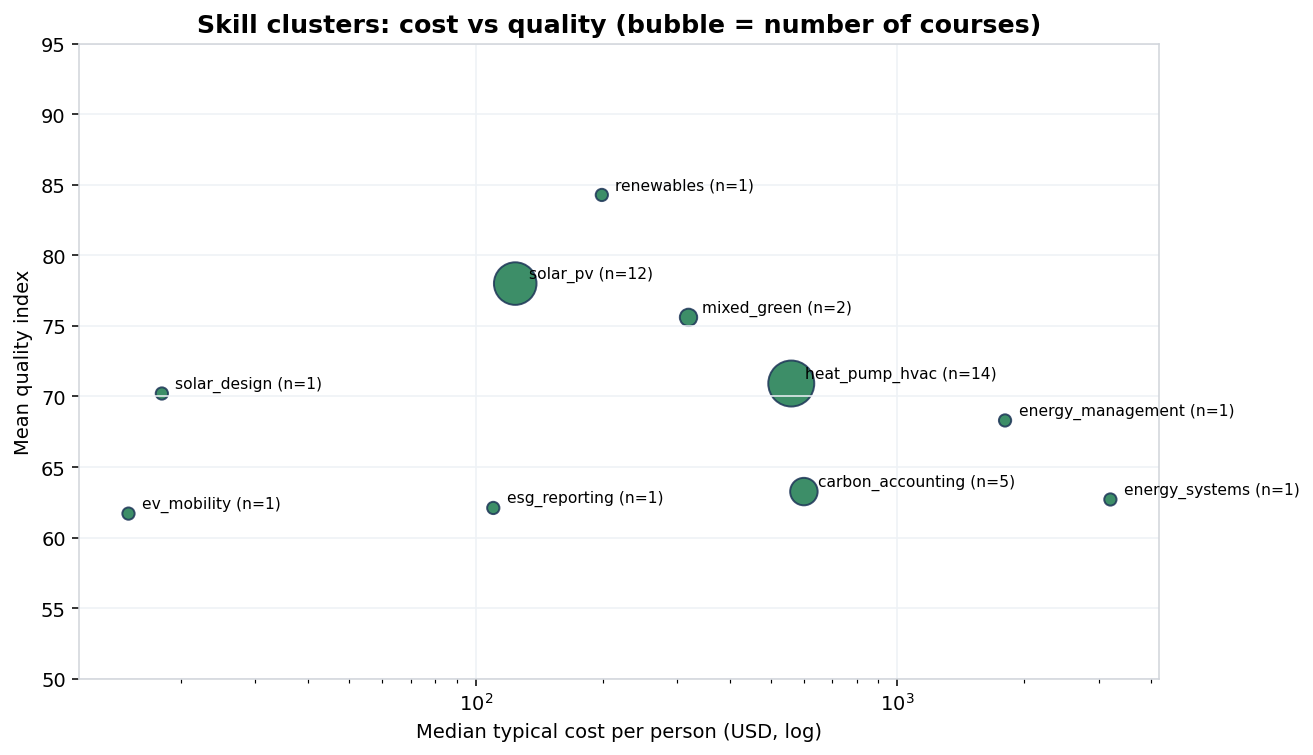
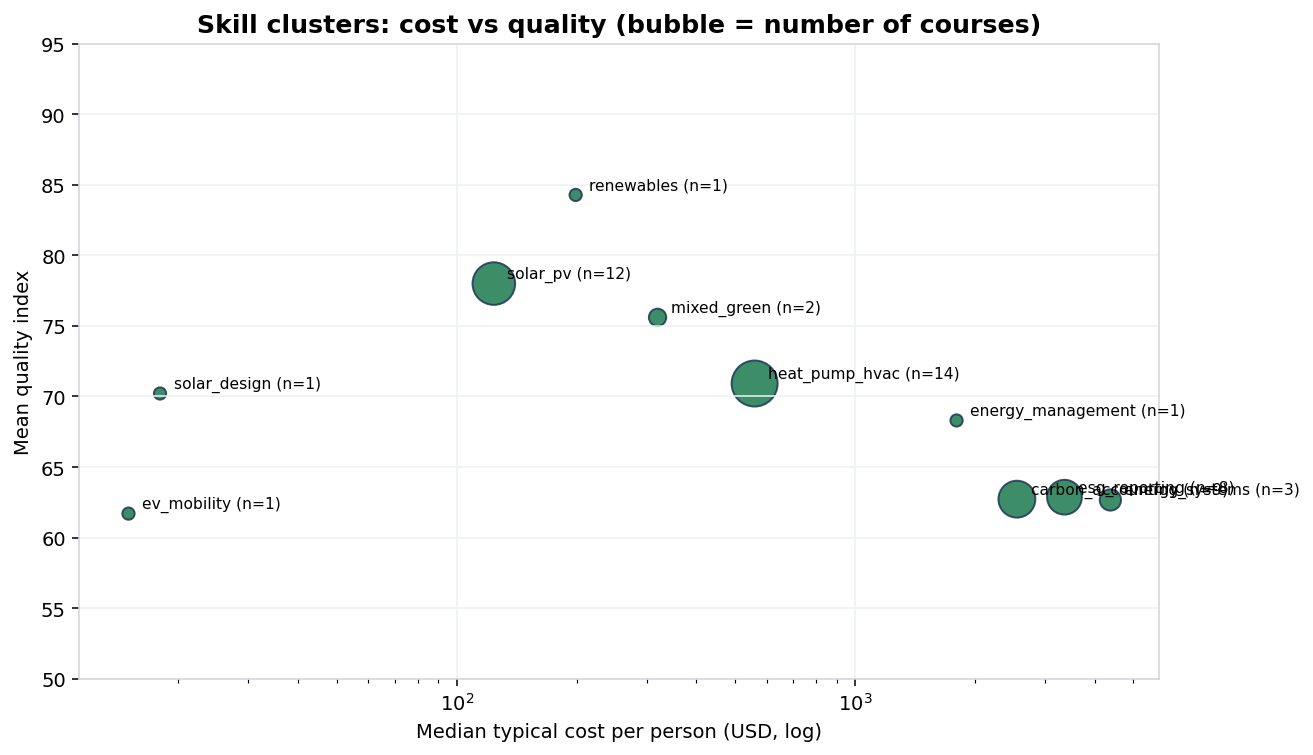
Add NTU Singapore green-skills courses, SkillsFuture nets, and GSC demand stats.

diff --git a/scripts/analyze.py b/scripts/analyze.py
@@ -687,6 +687,35 @@ HTG is sized for the **course**. Conversion is sized like **£1,000–£1,800 pl
 
 Workforce gap this leak sits in: Payaca / HPA-type estimates **<3,000** MCS heat-pump businesses and **2,000–4,500** full-time installers against **~31,000–41,000** needed this decade (HPA 30,590 by 2028; Nesta/CCC ~38,000 more by 2030). Octopus still cites **~100,000** heat-pump engineers for the UK build-out.
 
+## NTU Singapore (this refresh)
+
+Added **13 NTU PACE / Nanyang Business School** offerings. These are classroom CET with SkillsFuture funding, not MOOCs. **No public course-level star ratings** (NTU as a MySkillsFuture *provider* is 4.2 from 16,427 reviews — institution-level). Quality in the scatter is therefore credential-weighted.
+
+Singapore demand this is aimed at (Green Skills Committee 2025):
+
+| Signal | Figure |
+| --- | --- |
+| Sustainability reporting professionals | **2,000 (2023) → 4,000 (2030)** |
+| Solar / storage / smart grid / power-import workforce | **~420 (2022) → 720 (2026)** (+70%) |
+| Green-jobs demand growth 2024 | **+27%** (fastest in Asia, LinkedIn) |
+| Carbon Markets Academy at NTU | **300** professionals by 2027 |
+| Green workforce budget | **S$235m** |
+
+**List vs what a funded Singaporean actually pays** (USD @ SGD 0.78; typical in the CSV is the **unsubsidised list**, same rule as UK HTG):
+
+| NTU offering | List (inc GST) | SC 21–39 / PR | SC ≥40 (MCES) |
+| --- | ---: | ---: | ---: |
+| CM2 Carbon Accounting Fundamentals | S$3,270 (~$2,551) | S$1,770 (~$1,381) | S$1,170 (~$913) |
+| SCTP GHG module | S$3,815 (~$2,976) | S$1,145 (~$893) | S$445 (~$347) |
+| SCTP Sustainability Reporting + AI (full) | S$19,838 (~$15,474) | S$5,951 (~$4,642) | S$2,311 (~$1,803) |
+| Sustainable Finance certificate | S$5,341 (~$4,166) | S$2,891 (~$2,255) | S$1,911 (~$1,491) |
+| Carbon Markets exec (per module) | S$3,270 (~$2,551) | S$1,770 | S$1,170 |
+| Renewable Energy Systems in Smart Grids | ~S$5,616 (~$4,380) | ~S$1,685 (70%) | SME ETSS ~S$654 |
+
+Compare: **GHGMI 201 is $435** with an exam; **NTU CM2 is $2,551 list / ~$913 after 70%**. You are paying for IES Chartered Engineer (SG) pathway, classroom, and Singapore statute — not the same product as a $435 e-learning. After MCES, NTU carbon accounting lands near **GHG Protocol Scope 3 ($600)** and below **Harvard ($7,160)**.
+
+The SCTP reporting certificate at **$15k list** is the ISSB/ACRA compliance stack. That is the local analogue of “regulation-pulled white-collar green skill,” not a solar-installer bootcamp.
+
 **What reviews can and cannot do**
 
 - They measure learner satisfaction (clarity, production, instructor).
@@ -699,7 +728,7 @@ Workforce gap this leak sits in: Payaca / HPA-type estimates **<3,000** MCS heat
 - Coursera specialization cost assumes ~4 months at $49/mo, not Coursera Plus ($399/yr) unless the row is Plus.
 - Several professional courses (GHG Protocol, GHGMI, AEE, SEI) publish **no star ratings** — quality is credential-weighted.
 - One EV row is low-confidence (estimated reviews).
-- UK course USD uses **GBP 1.30**; Heat Training Grant net cost is in notes not in `cost_usd_typical` (typical = unsubsidised).
+- UK course USD uses **GBP 1.30**; NTU Singapore uses **SGD 0.78**. SkillsFuture / HTG net cost is in notes; `cost_usd_typical` is unsubsidised list.
 - Wages are US BLS occupation medians, not course-specific placement. HVAC wage is used as the heat-pump proxy (no separate BLS heat-pump installer SOC).
 - LinkedIn “green skills” are self-reported profile skills, not assessed competence.
 - HTG survey n is small (~139); treat percentages as directional.

diff --git a/reports/cost-quality-report.md b/reports/cost-quality-report.md
@@ -203,6 +203,35 @@ HTG is sized for the **course**. Conversion is sized like **£1,000–£1,800 pl
 
 Workforce gap this leak sits in: Payaca / HPA-type estimates **<3,000** MCS heat-pump businesses and **2,000–4,500** full-time installers against **~31,000–41,000** needed this decade (HPA 30,590 by 2028; Nesta/CCC ~38,000 more by 2030). Octopus still cites **~100,000** heat-pump engineers for the UK build-out.
 
+## NTU Singapore (this refresh)
+
+Added **13 NTU PACE / Nanyang Business School** offerings. These are classroom CET with SkillsFuture funding, not MOOCs. **No public course-level star ratings** (NTU as a MySkillsFuture *provider* is 4.2 from 16,427 reviews — institution-level). Quality in the scatter is therefore credential-weighted.
+
+Singapore demand this is aimed at (Green Skills Committee 2025):
+
+| Signal | Figure |
+| --- | --- |
+| Sustainability reporting professionals | **2,000 (2023) → 4,000 (2030)** |
+| Solar / storage / smart grid / power-import workforce | **~420 (2022) → 720 (2026)** (+70%) |
+| Green-jobs demand growth 2024 | **+27%** (fastest in Asia, LinkedIn) |
+| Carbon Markets Academy at NTU | **300** professionals by 2027 |
+| Green workforce budget | **S$235m** |
+
+**List vs what a funded Singaporean actually pays** (USD @ SGD 0.78; typical in the CSV is the **unsubsidised list**, same rule as UK HTG):
+
+| NTU offering | List (inc GST) | SC 21–39 / PR | SC ≥40 (MCES) |
+| --- | ---: | ---: | ---: |
+| CM2 Carbon Accounting Fundamentals | S$3,270 (~$2,551) | S$1,770 (~$1,381) | S$1,170 (~$913) |
+| SCTP GHG module | S$3,815 (~$2,976) | S$1,145 (~$893) | S$445 (~$347) |
+| SCTP Sustainability Reporting + AI (full) | S$19,838 (~$15,474) | S$5,951 (~$4,642) | S$2,311 (~$1,803) |
+| Sustainable Finance certificate | S$5,341 (~$4,166) | S$2,891 (~$2,255) | S$1,911 (~$1,491) |
+| Carbon Markets exec (per module) | S$3,270 (~$2,551) | S$1,770 | S$1,170 |
+| Renewable Energy Systems in Smart Grids | ~S$5,616 (~$4,380) | ~S$1,685 (70%) | SME ETSS ~S$654 |
+
+Compare: **GHGMI 201 is $435** with an exam; **NTU CM2 is $2,551 list / ~$913 after 70%**. You are paying for IES Chartered Engineer (SG) pathway, classroom, and Singapore statute — not the same product as a $435 e-learning. After MCES, NTU carbon accounting lands near **GHG Protocol Scope 3 ($600)** and below **Harvard ($7,160)**.
+
+The SCTP reporting certificate at **$15k list** is the ISSB/ACRA compliance stack. That is the local analogue of “regulation-pulled white-collar green skill,” not a solar-installer bootcamp.
+
 **What reviews can and cannot do**
 
 - They measure learner satisfaction (clarity, production, instructor).
@@ -215,7 +244,7 @@ Workforce gap this leak sits in: Payaca / HPA-type estimates **<3,000** MCS heat
 - Coursera specialization cost assumes ~4 months at $49/mo, not Coursera Plus ($399/yr) unless the row is Plus.
 - Several professional courses (GHG Protocol, GHGMI, AEE, SEI) publish **no star ratings** — quality is credential-weighted.
 - One EV row is low-confidence (estimated reviews).
-- UK course USD uses **GBP 1.30**; Heat Training Grant net cost is in notes not in `cost_usd_typical` (typical = unsubsidised).
+- UK course USD uses **GBP 1.30**; NTU Singapore uses **SGD 0.78**. SkillsFuture / HTG net cost is in notes; `cost_usd_typical` is unsubsidised list.
 - Wages are US BLS occupation medians, not course-specific placement. HVAC wage is used as the heat-pump proxy (no separate BLS heat-pump installer SOC).
 - LinkedIn “green skills” are self-reported profile skills, not assessed competence.
 - HTG survey n is small (~139); treat percentages as directional.

diff --git a/data/sources.md b/data/sources.md
@@ -46,3 +46,16 @@ Primary documents used to populate the CSVs. Prefer these over secondary blogs w
 - MCS cost bundle via Dwellow: https://www.dwellow.co.uk/guides/mcs-umbrella-scheme
 - HPIN umbrella fees: https://www.hpin.co.uk/
 - Daikin Start at Home: https://www.daikin.co.uk/en_gb/installer/partner-programmes/sustainable-home-network/nesta.html
+
+## NTU Singapore (added 2026-09-16)
+- NTU PACE Professional Certificate CEng (SG) in Sustainability: https://www.ntu.edu.sg/pace/for-individuals/professional-certificates/professional-certificate-in-chartered-engineer-(sg)-in-sustainability
+- MySkillsFuture Carbon Accounting Fundamentals (21h, NTU provider rating): https://courses.myskillsfuture.gov.sg/courses/TGS-2025057845--Carbon-Accounting-Fundamentals-1
+- NBS SCTP Sustainability Reporting and AI Analytics: https://www.ntu.edu.sg/business/admissions/NEE/public-programmes-for-professionals/skillsfuture-career-transition-programmes/sctp-advanced-professional-certificate-in-sustainability-reporting-and-ai-analytics
+- NBS Executive Certificate in Corporate and Environmental Sustainability
+- NBS Certificate Programme in Sustainable Finance
+- NBS Carbon Credit Quality and Due Diligence
+- NBS Executive Certificate in Carbon Markets / CMAS
+- NTU Renewable Energy Systems in Smart Grids (FlexiMasters stackable)
+- SCTP Sustainable Urban Environments
+- Green Skills Committee Report 2025: https://jobsandskills.skillsfuture.gov.sg/resources/GSC-Report-2025.pdf
+- FX: SGDUSD 0.78 used for NTU rows in this snapshot

diff --git a/README.md b/README.md
@@ -12,7 +12,7 @@ Find **course costs**, **future / green-skills programmes**, **labour-market sta
 | Heat Training Grant outcomes | [data/outcomes_htg.csv](data/outcomes_htg.csv) |
 | First-install / MCS conversion funnel | [data/conversion_funnel.csv](data/conversion_funnel.csv) |
 | MCS vs umbrella cost stack | [data/mcs_cost_stack.csv](data/mcs_cost_stack.csv) |
-| Scored table (39 courses) | [output/courses_scored.csv](output/courses_scored.csv) |
+| Scored table | [output/courses_scored.csv](output/courses_scored.csv) |
 | Heat-pump outcome chart | [output/09_htg_satisfaction_vs_jobs.png](output/09_htg_satisfaction_vs_jobs.png) |
 | Conversion funnel | [output/11_conversion_funnel.png](output/11_conversion_funnel.png) |
 
